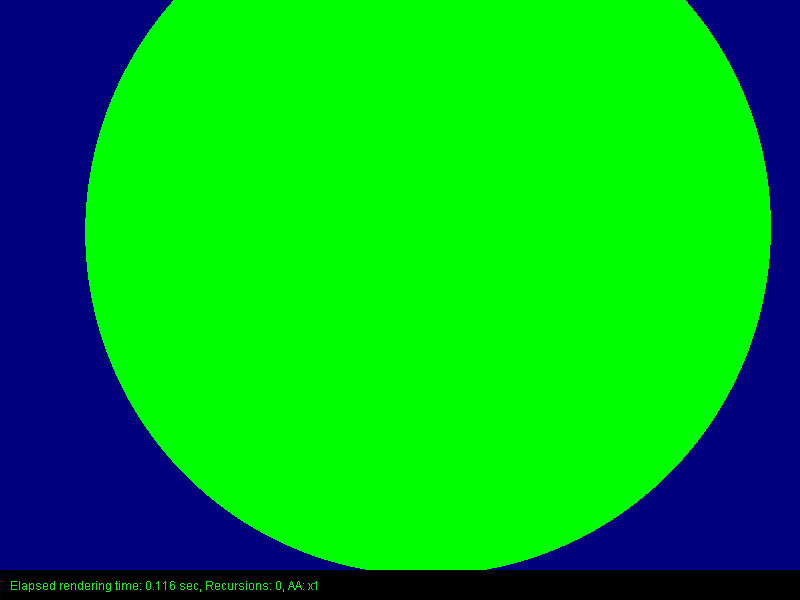
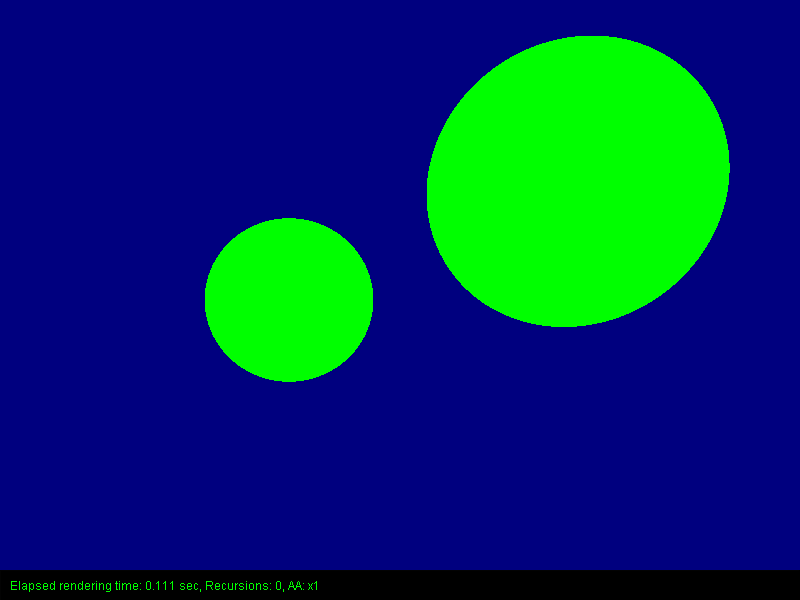
basic transformation fix i think?

diff --git a/VCG_Raytracer/src/scene/shape/Sphere.java b/VCG_Raytracer/src/scene/shape/Sphere.java
@@ -16,6 +16,7 @@ public class Sphere extends Shape{
     private float C;
 
     private Matrix4x4 myTransformationMatrix;
+    private Matrix4x4 myInverseMatrix;
 
     
     public Sphere(Vec3 pos, float radius) {
@@ -24,35 +25,42 @@ public class Sphere extends Shape{
         this.intersectionData = new Intersection();
         this.myTransformationMatrix = new Matrix4x4();
         this.setupMatrix(pos, radius);
+        this.myInverseMatrix = myTransformationMatrix.invert();
     }
 
     public void setupMatrix(Vec3 _pos, float _rad){
-        addInvTranslation(_pos);
+        //scale first
         addScaleUni(_rad);
+        //then translate
+        addInvTranslation(_pos);
     }
 
     public void addInvTranslation (Vec3 _pos) {
         Vec4 homoTrans = new Vec4(_pos.x, _pos.y, _pos.z, 1);
-        myTransformationMatrix = myTransformationMatrix.translateXYZW(homoTrans).invert();
+        myTransformationMatrix = myTransformationMatrix.translateXYZW(homoTrans);
     }
 
     public void addScaleUni (double _scale) {
         myTransformationMatrix = myTransformationMatrix.scale(_scale);
     }
 
-    public void applyTransformation(Ray _ray){
+    public Ray createTransformedRay(Ray _ray){
+        //richtung bleibt
         Vec3 newDirection = _ray.getDirection();
-        Vec3 newOrigin = _ray.getOrigin();
-        _ray.setDirection_D(myTransformationMatrix.multVec3(newDirection, false));
-        _ray.setStartpoint_p0(myTransformationMatrix.multVec3(newOrigin, true));
+        //müssen nur den startpunkt bearbeiten mit der inverse
+        Vec3 newOrigin = this.myInverseMatrix.multVec3(_ray.getOrigin(), true);
+
+        //return ray with modified data
+        return new Ray(newOrigin, newDirection);
     }
     //erst inverse dann schnittpunkt dann schnittpunkt berechnen
     //darauf dann die normale matrix drauf anwenden 
 
     
     public void intersect(Ray ray){
-        Vec3 start = ray.getOrigin();
-        Vec3 direction = ray.getDirection();
+        Ray transformedRay = createTransformedRay(ray);
+        Vec3 start = transformedRay.getOrigin();
+        Vec3 direction = transformedRay.getDirection();
 
         //A = (float) Math.pow(checkRay.x, 2) + (float) Math.pow(checkRay.y, 2) + (float) Math.pow(checkRay.z, 2);
         //ist das selbe wie

diff --git a/VCG_Raytracer/src/raytracer/Raytracer.java b/VCG_Raytracer/src/raytracer/Raytracer.java
@@ -123,7 +123,6 @@ public class Raytracer {
                 for (Shape currentShape : mScene.getShapes()) {
                     Ray ray = camera.getRayForPixel(currentPixel, windowSize);
                     Intersection currentIntersection;
-                    currentShape.applyTransformation(ray);
                     currentShape.intersect(ray);
                     currentIntersection = currentShape.getIntersectionData();
                     if(currentIntersection.isHit())

diff --git a/VCG_Raytracer/src/scene/Scene.java b/VCG_Raytracer/src/scene/Scene.java
@@ -20,8 +20,8 @@ public class Scene {
     {
         shapeList = new ArrayList<Shape>();
         lightList = new ArrayList<Light>();
-        createSphere(new Vec3(0.2f,0.5f,0), 1.25f);
-        createSphere(new Vec3(-0.5f,0,0), 0.75f);
+        createSphere(new Vec3(1.5f,1f,0), 1.25f);
+        createSphere(new Vec3(-1f,0,0), 0.75f);
         Log.print(this, "Init");
     }
 

diff --git a/VCG_Raytracer/src/scene/shape/Shape.java b/VCG_Raytracer/src/scene/shape/Shape.java
@@ -13,6 +13,4 @@ public abstract class Shape extends SceneObject {
 
     public abstract Intersection getIntersectionData();
 
-    public abstract void applyTransformation(Ray _ray);
-
 }
